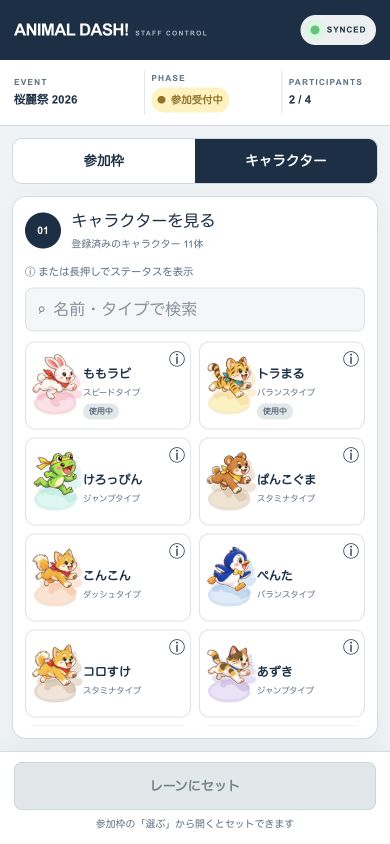
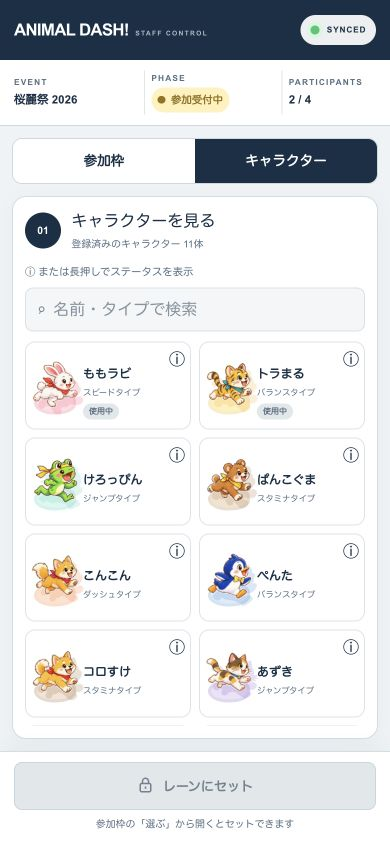
参照画面のセット不可ボタンに鍵アイコンを追加

diff --git a/app/features/admin/components/MobileAdminWorkspace.jsx b/app/features/admin/components/MobileAdminWorkspace.jsx
@@ -107,7 +107,7 @@ export function MobileAdminWorkspace({ session, selection, actions, canLogout, o
         <div className="mobile-character-grid">{selection.filteredCharacters.map((character) => <CharacterCard key={character.id} character={character} used={selection.usedIds.has(character.id)} selected={assigning && selectedId === character.id} assigning={assigning} mutable={mutable} onSelect={selection.toggleSelected} onInfo={setInfoId} />)}</div>
         {!selection.filteredCharacters.length && <p className="mobile-empty-search">該当するキャラクターがいません。</p>}
       </section>
-      <div className="mobile-action-dock mobile-character-dock"><div><Button variant="primary" disabled={!canAssign} onClick={assign}>{assigning ? `レーン${targetLane + 1}にセット` : "レーンにセット"}</Button>{assigning && <Button variant="secondary" disabled={!selectedId} onClick={() => selection.setSelectedId(null)}>選択解除</Button>}</div>{!assigning && <small>参加枠の「選ぶ」から開くとセットできます</small>}{assigning && session.lanes[targetLane] && <small role="status">このレーンは他の操作で埋まりました。参加枠から選び直してください。</small>}</div>
+      <div className="mobile-action-dock mobile-character-dock"><div><Button variant="primary" disabled={!canAssign} onClick={assign}>{!assigning && <svg className="mobile-set-lock" aria-hidden="true" viewBox="0 0 24 24" width="18" height="18" fill="none" stroke="currentColor" strokeWidth="2"><rect x="5" y="10" width="14" height="11" rx="2" /><path d="M8 10V7a4 4 0 0 1 8 0v3" /><path d="M12 14v3" /></svg>}{assigning ? `レーン${targetLane + 1}にセット` : "レーンにセット"}</Button>{assigning && <Button variant="secondary" disabled={!selectedId} onClick={() => selection.setSelectedId(null)}>選択解除</Button>}</div>{!assigning && <small>参加枠の「選ぶ」から開くとセットできます</small>}{assigning && session.lanes[targetLane] && <small role="status">このレーンは他の操作で埋まりました。参加枠から選び直してください。</small>}</div>
     </>}
     {info && <AdminModal title="ステータス詳細" onClose={() => setInfoId(null)} className="mobile-stats-dialog"><CharacterAvatar id={info.id} /><h3>{info.name}</h3><p>{info.preset}タイプ</p><p>{info.caption}</p><MobileStats character={info} /><Button variant="secondary" onClick={() => setInfoId(null)}>閉じる</Button></AdminModal>}
     {operationsOpen && <AdminModal title="その他の操作" onClose={() => setOperationsOpen(false)} className="mobile-operations-dialog">

diff --git a/app/styles/admin-mobile.css b/app/styles/admin-mobile.css
@@ -120,6 +120,7 @@
   .mobile-character-copy b { width: fit-content; border-radius: 99px; background: #e1e7ea; padding: 2px 6px; color: var(--ink-soft); font-size: .5rem; }
   .mobile-character-info { position: absolute; right: 0; top: 0; width: 44px; height: 44px; display: flex; justify-content: flex-end; align-items: flex-start; padding: 5px; border: 0; background: transparent; font-size: 1rem; }
   .mobile-character-dock .primary-button:disabled { background: #e1e7ea; color: #72838f; border-color: #cad5dc; opacity: 1; }
+  .mobile-set-lock { display: inline-block; margin-right: 8px; vertical-align: -3px; }
   .mobile-character-dock > small { display: block; text-align: center; color: var(--ink-soft); font-size: .62rem; margin-top: 7px; }
   .mobile-empty-search { text-align: center; color: var(--ink-soft); padding: 1.5rem 0; font-size: .8rem; }
   .admin-native-modal .dialogAction, .admin-native-modal .primary-button, .admin-native-modal .secondary-button { min-height: 44px; min-width: 0; font-size: .8rem; }

diff --git a/docs/mobile-admin.md b/docs/mobile-admin.md
@@ -5,16 +5,35 @@
 ## 操作
 
 - **参加枠**：空きレーンの「選ぶ」から、そのレーン専用のキャラクター選択へ進む。配置済みレーンは解除ボタンで空ける。BOT補充とレース開始は独立した操作とし、スマホには「BOTで補充して開始」を表示しない。
-- **キャラクター参照**：タブから直接開いた場合はセット不可。カードのinfoボタン・長押し（550ms）で詳細を表示する。参照モードの通常タップでも詳細を開ける。
+- **キャラクター参照**：タブから直接開いた場合はセット不可で、セットボタンの左に鍵アイコンを表示する。カードのinfoボタン・長押し（550ms）で詳細を表示する。参照モードの通常タップでも詳細を開ける。
 - **レーンへのセット**：未使用キャラクターのタップで選択し、下部の「レーンNにセット」で確定する。「選択解除」または参加枠タブへの移動で選択を解除する。配置先の切り替えUIや常設のステータス詳細は設けない。
 - **同時操作**：別スタッフが配置先を埋めた場合や選択したキャラクターを使用した場合、セットを無効にする。これは既存の同期されたセッションから判定するUI上の防止策であり、通信基盤の同時更新方式は変更しない。
 - **その他の操作**：アトラクト・参加待機・強制終了／結果スキップ・リセットをダイアログに集約する。操作の有効条件はPCと共通。強制終了とリセットには既存の確認を残す。ゲーム画面へのリンク・ログアウトもここに置く。
-- **撮影**：既存のカメラ／画像選択・縮小・生成処理を利用する。スマホでは確認画面を全画面表示し、生成中、再試行可能／不可能なエラーも表示する。生成中の再送とダイアログ終了は無効にする。
+- **撮影**：既存のカメラ／画像選択・縮小・生成処理を利用する。最初にPCと同じ撮影開始ダイアログを表示し、「撮影 / 選択する」でカメラ／画像選択へ進む。画像の確認画面は全画面表示し、生成中、再試行可能／不可能なエラーも表示する。生成中の再送とダイアログ終了は無効にする。
 - **詳細表示**：3つのステータスは紺色のバーと数値で表示する。レーン内はSPD・STMの2本のみ。ゲーム側のステータスやPC側の表示は変更しない。
 
-固定バーの実際の高さを `ResizeObserver` で測定してコンテンツ下部の余白に反映する。スクロールを始めたときは長押しを解除する。ダイアログはネイティブ `dialog` を使い、Escape、Tab／Shift+Tabの循環、閉じた後のフォーカス復帰、背面スクロールの抑止に対応する。
+参加枠の固定バーの実際の高さを `ResizeObserver` で測定してコンテンツ下部の余白に反映する。キャラクター画面は画面の高さに収め、一覧だけをスクロールする。ヘッダー・タブ・検索欄・操作欄はそのまま表示する。スクロールを始めたときは長押しを解除する。ダイアログはネイティブ `dialog` を使い、Escape、Tab／Shift+Tabの循環、閉じた後のフォーカス復帰、背面スクロールの抑止に対応する。
 
-## 検証結果（2026-10-11）
+## 追加UI調整の確認（2026-10-11）
+
+4点の変更をそれぞれ別コミットに分けた。今回の確認は変更したUIに絞り、全体テスト・ビルドは再実行していない。
+
+| 対象 | 確認内容 | 結果 |
+| --- | --- | --- |
+| 参加枠 | 画像と情報の間隔12px、バー幅を制限（390px幅で約95px）、320px幅でも横にはみ出さない | PASS |
+| 一覧スクロール | 一覧を183.5pxスクロールしてもヘッダー・タブ・検索欄・操作欄の位置が変わらず、ページスクロールは0 | PASS |
+| 狭い画面 | 320×568pxでも一覧にスクロール領域があり、操作欄が画面内に収まる | PASS |
+| 撮影開始 | 高さ約181pxの確認ダイアログ、キャンセルで復帰、画像選択で全画面プレビュー、撮り直しで確認ダイアログへ戻る | PASS |
+| 参照／セット | 参照ボタンは鍵付きで非活性、レーン指定後の選択でセットボタンが活性化し鍵は表示されない | PASS |
+| PC境界 | 901pxで既存PC画面を表示、スマホ画面を非表示、横方向のはみ出しなし | PASS |
+| ブラウザ | エラーログ0件 | PASS |
+| 差分 | `git diff --check` | PASS |
+
+対象の2つのJSXを `eslint --ext .jsx --rule 'react/prop-types: off'` で確認し、エラー0件。既存コードがPropTypesを定義していないため、このルールのみ対象外とした。既存のプレビュー用 `<img>` に関する警告1件は残る。通常のlint設定では `.jsx` が対象外になっている。
+
+[表示位置などの確認記録](images/mobile-admin/ui-followup-checks.json)。今回更新した画像は01・02・03・04・06・11・16。その他の画像は初回実装時の検証記録。
+
+## 初回実装の検証結果（2026-10-11）
 
 ### 自動テスト
 
@@ -77,7 +96,7 @@ IMAGE_POC_API_KEY=local-ui-fixture
 
 ## 既存PRとの併用確認
 
-以下のHEADと今回のコード（`0905cca`）について、`git merge-tree --write-tree` による試験マージを行い、すべてコンフリクトなし。
+以下のHEADに対して、初回実装と追加UI調整の両方で `git merge-tree --write-tree` による試験マージを行い、すべてコンフリクトなし。追加UI調整ではスタックとの全体テストは再実行していない。
 
 | 対象 | PR | 確認したHEAD | 結果 |
 | --- | --- | --- | --- |
@@ -86,7 +105,7 @@ IMAGE_POC_API_KEY=local-ui-fixture
 | 実ランキング #46 | #50 | `11c4ae5e` | clean |
 | develop | — | `004f02c9` | clean |
 
-#50のスタック全体（#45→#44→#46）と今回の変更を合わせたツリーを別ディレクトリに展開し、ビルド成功・自動テスト82件成功（失敗0件）を確認した。試験マージの内容を今回のブランチへ取り込んではいない。
+初回実装では、#50のスタック全体（#45→#44→#46）と変更を合わせたツリーを別ディレクトリに展開し、ビルド成功・自動テスト82件成功（失敗0件）を確認した。試験マージの内容を今回のブランチへ取り込んではいない。
 
 ## スクリーンショット
 
